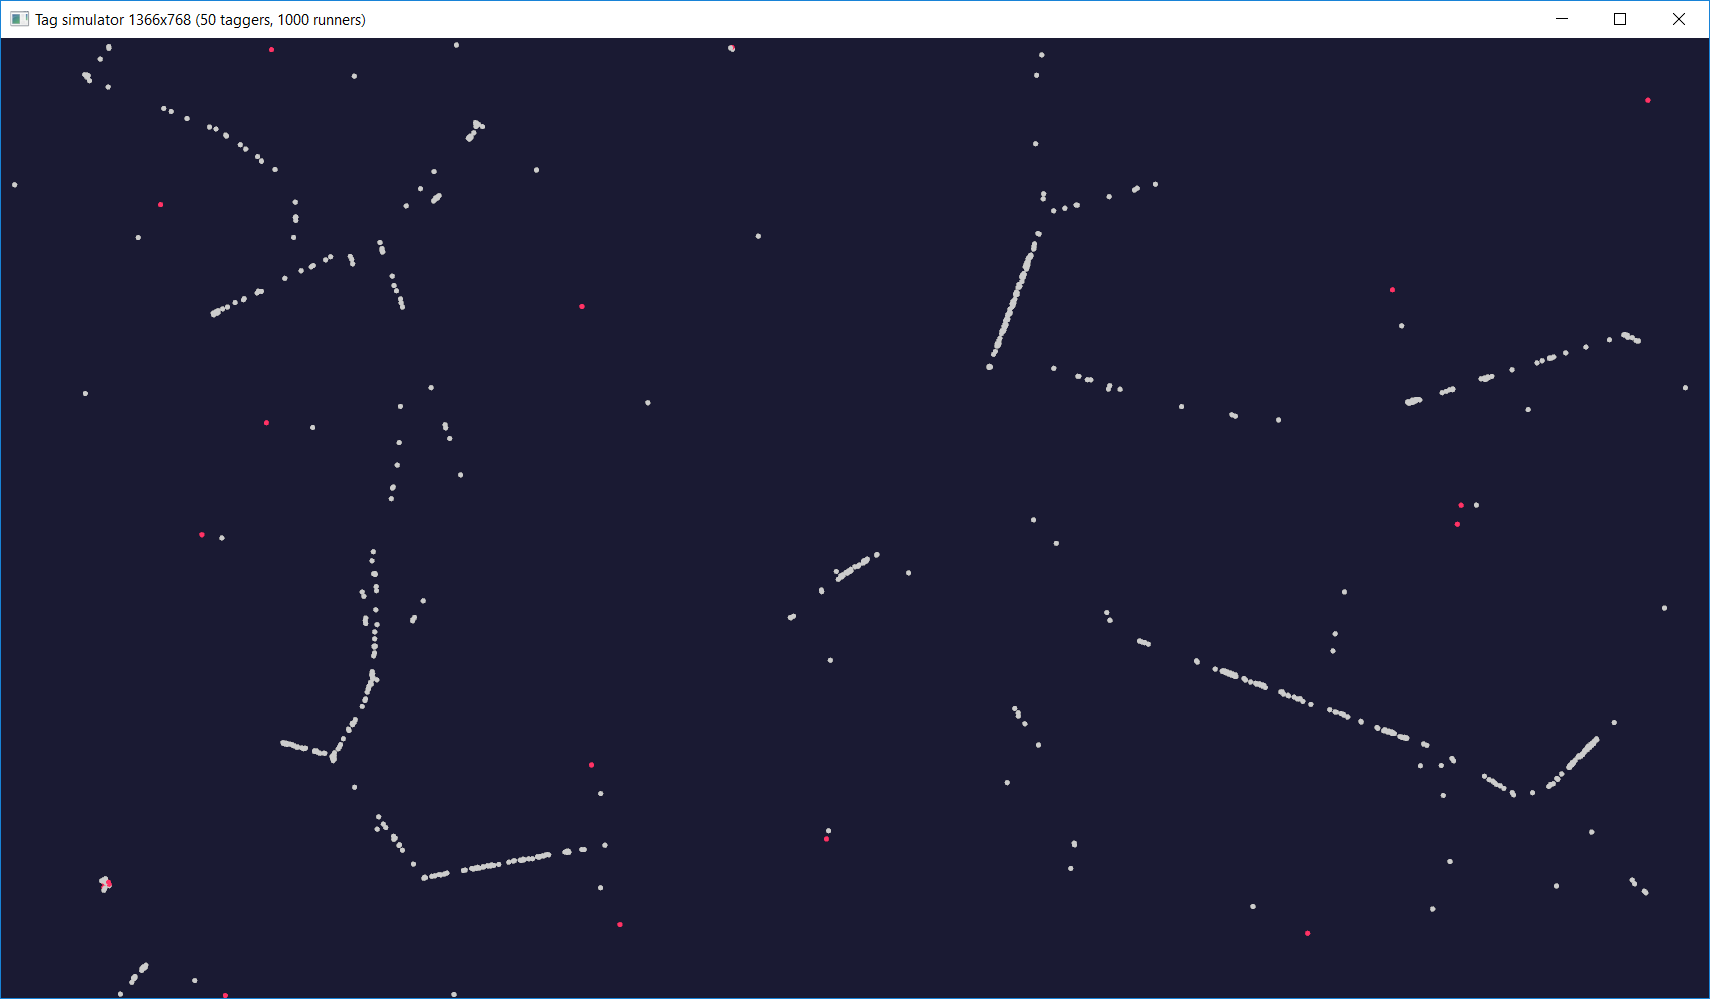
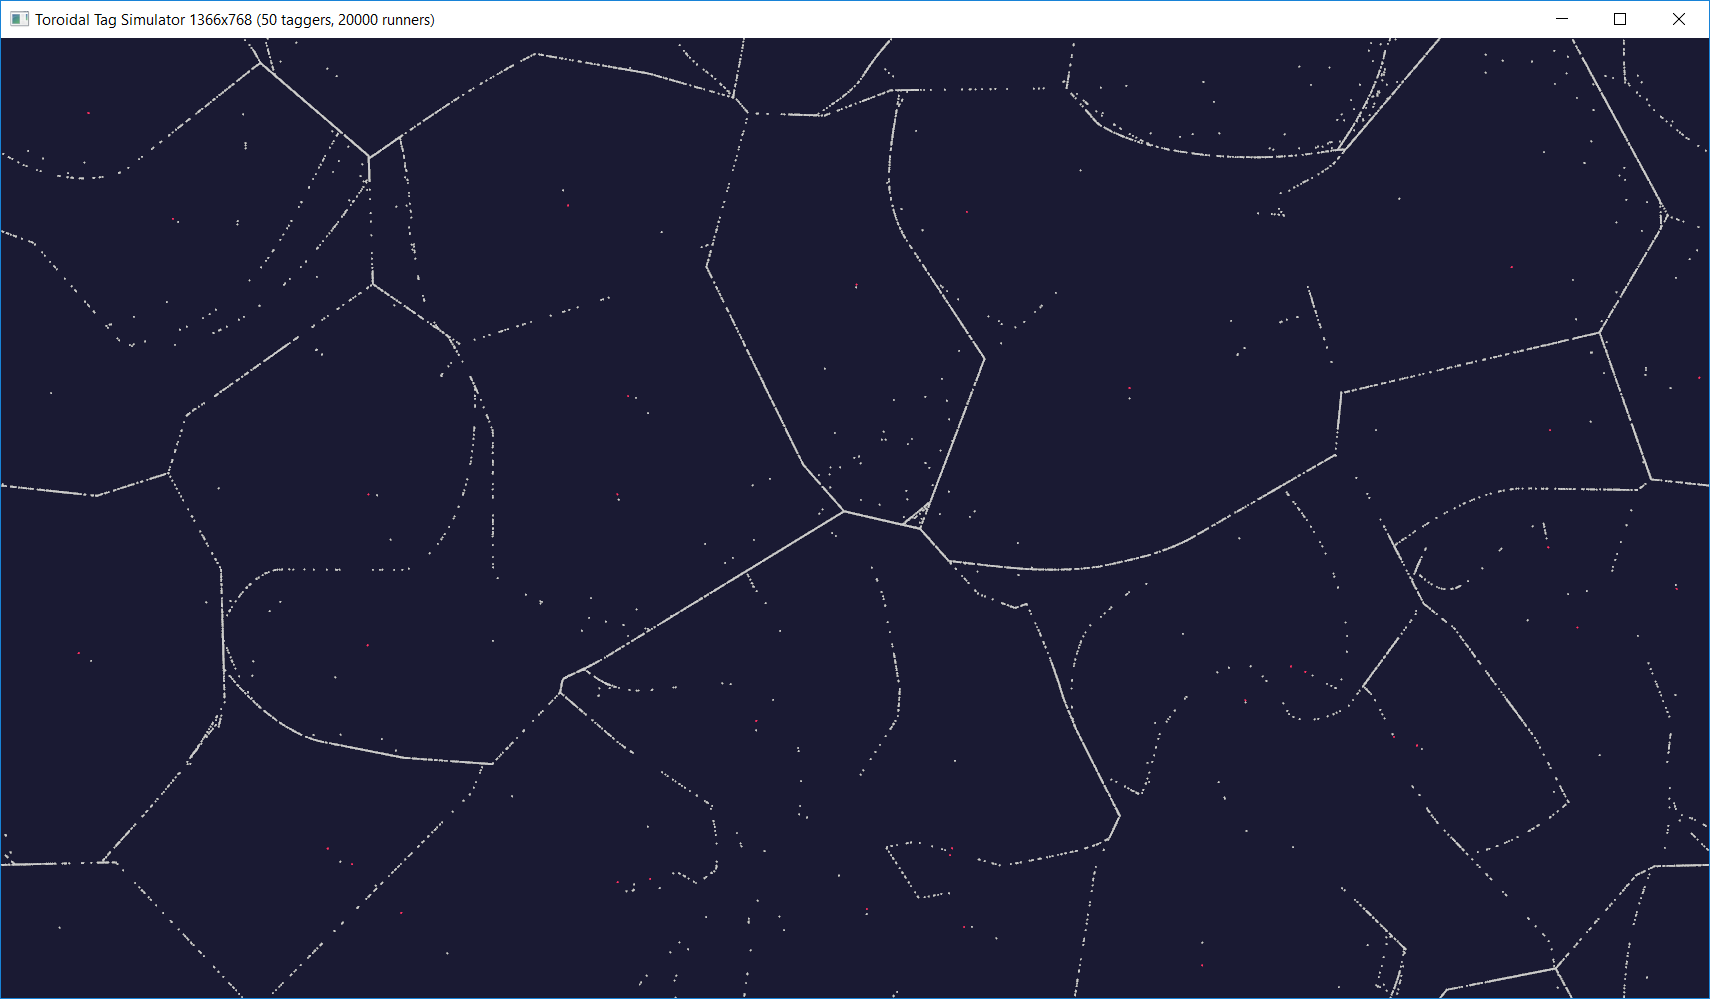
Implement performance counter and parallelise agent updates

diff --git a/src/main.rs b/src/main.rs
@@ -3,23 +3,26 @@ extern crate graphics;
 extern crate opengl_graphics;
 extern crate piston;
 
+use fps_counter::FPSCounter;
 use glutin_window::GlutinWindow as Window;
 use opengl_graphics::{GlGraphics, OpenGL};
 use piston::event_loop::{EventSettings, Events};
 use piston::input::{RenderEvent, UpdateEvent};
 use piston::window::WindowSettings;
 use rand::Rng;
+use rayon::prelude::*;
 
 mod agent;
+mod fps_counter;
 mod vec;
 
 // config
 const WIDTH: u32 = 1366;
 const HEIGHT: u32 = 768;
 const ITTERS: u32 = 50;
-const RUNNERS: u32 = 1000;
-const SPEED: f64 = 100.;
-const IT_RANGE: f64 = 4.;
+const RUNNERS: u32 = 20000;
+const SPEED: f64 = 10.;
+const IT_RANGE: f64 = 1.5;
 
 // colours
 const BG_COL: [f32; 4] = [0.1, 0.1, 0.2, 1.0];
@@ -31,7 +34,7 @@ fn main() {
 
     let mut window: Window = WindowSettings::new(
         format!(
-            "Tag simulator {}x{} ({} taggers, {} runners)",
+            "Toroidal Tag Simulator {}x{} ({} taggers, {} runners)",
             WIDTH, HEIGHT, ITTERS, RUNNERS
         ),
         [WIDTH, HEIGHT],
@@ -74,15 +77,18 @@ fn main() {
 
     // update-render loop
     let mut events = Events::new(EventSettings::new());
+    let mut update_counter = FPSCounter::new("Update".to_string(), 60);
+    let mut render_counter = FPSCounter::new("Render".to_string(), 60);
+
     while let Some(e) = events.next(&mut window) {
         // update
         if let Some(args) = e.update_args() {
-            let mut last_agents = agents.clone();
+            let last_agents = agents.clone();
 
-            for agent in &mut agents {
+            agents.par_iter_mut().for_each(|agent| {
                 agent.update(
                     args.dt,
-                    &mut last_agents,
+                    &last_agents,
                     agent::Options {
                         bounds: vec::Vec2 {
                             x: WIDTH as f64,
@@ -92,7 +98,9 @@ fn main() {
                         speed: SPEED,
                     },
                 );
-            }
+            });
+
+            update_counter.tick();
         }
 
         // render
@@ -117,6 +125,8 @@ fn main() {
                     }
                 })
             }
+
+            render_counter.tick();
         }
     }
 }

diff --git a/src/fps_counter.rs b/src/fps_counter.rs
@@ -1,0 +1,34 @@
+use std::time::{Duration, Instant};
+
+pub struct FPSCounter {
+    name: String,
+    update_period: u64,
+    last_frame_time: std::time::Instant,
+    elapsed_frames: u32,
+}
+
+impl FPSCounter {
+    pub fn new(name: String, update_period: u64) -> FPSCounter {
+        FPSCounter {
+            name: name,
+            update_period: update_period,
+            last_frame_time: Instant::now(),
+            elapsed_frames: 0,
+        }
+    }
+
+    pub fn tick(&mut self) -> () {
+        let elapsed_time = self.last_frame_time.elapsed();
+        self.elapsed_frames += 1;
+
+        if elapsed_time > Duration::new(self.update_period, 0) {
+            println!(
+                "[{}] {:.2}ms per frame",
+                self.name,
+                elapsed_time.as_millis() as f64 / self.elapsed_frames as f64
+            );
+            self.last_frame_time = Instant::now();
+            self.elapsed_frames = 0;
+        }
+    }
+}

diff --git a/src/agent.rs b/src/agent.rs
@@ -3,7 +3,7 @@ use crate::vec;
 // NB: Vec<Box<dyn ...>> cloning implementation based on
 // https://stackoverflow.com/questions/50017987/cant-clone-vecboxtrait-because-trait-cannot-be-made-into-an-object
 
-pub trait Agent: AgentClone {
+pub trait Agent: AgentClone + Send + Sync {
     fn get_id(&self) -> i32;
     fn get_position(&self) -> vec::Vec2;
     fn is_it(&self) -> bool;

diff --git a/README.md b/README.md
@@ -1,6 +1,6 @@
-# You Are IT
+# Toroidal Tag Simulator
 
-An agent based simulation of the classic playground game It (AKA Tag), implemented in `Rust` using `Piston` for graphics.
+An agent based simulation of the classic playground game It (AKA Tag) as played by several thousand rational(-ish) agents on the surface of a torus. Implemented in `Rust` using `Piston` for graphics.
 
 ## How to Run
 
@@ -21,23 +21,34 @@ An agent based simulation of the classic playground game It (AKA Tag), implement
 
 The game takes place in a toroidal space, that is, when an agent leaves one edge of the screen it re-enters at the opposite edge. This was chosen to prevent the agents from all coalescing in the corners when evading the "itters".
 
-The current agent implementation, `SimpleAgent`, operates by a very simple strategy. If it is "it", it finds the nearest agent that is "not-it" and heads towards it. If it is "not-it", it finds the nearest agent that "it" and heads away from it. As "tag-backs" are not allowed, "itting" agents ignore the agent that itted them and "running" agents do not fear the agent that they most recently itted.
+An agent in the simulation must implement the `Agent` trait. The current agent implementation, `SimpleAgent`, operates by a very simple strategy. If it is "it", it finds the nearest agent that is "not-it" and heads towards it. If it is "not-it", it finds the nearest agent that "it" and heads away from it. As "tag-backs" are not allowed, "itting" agents ignore the agent that itted them and "running" agents do not fear the agent that they most recently itted.
 
-To ensure that "its" occur, agents that are "it" recieve a 10% speed boost over their "not-it" counterparts.
+To ensure that "its" occur somewhat frequently, agents that are "it" recieve a 10% speed boost over their "not-it" counterparts.
 
 ## Results
 
-An immediately striking result with larger simulations is that the "running" agents quickly converge on a pattern approximating the Voronoi diagram of the "itting" agents. This makes sense as the runners flee directly away from the itters, meaning that they congregate at points equidistant between two itters.
+An immediately striking result with larger simulations is that the "running" agents quickly converge on a pattern approximating the Voronoi diagram of the "itting" agents. This makes sense as the runners each flee directly away from their closest itter, meaning that they congregate at points equidistant between two itters.
 
 ![Voronoi](./pictures/Voronoi.png)
 
-Due to their speed advantage, the itting agents are always eventually able to catch a runner. This causes edges of the Voronoi pattern to be lost over time until just a few edges remain. As there is no incentive for the running agents to separate the pattern fades into boringness.
+Due to their speed advantage, the itting agents are always eventually able to catch a runner. This causes edges of the Voronoi pattern to be lost over time until just a few edges remain. As there is no incentive for the running agents to separate the pattern fades into boringness:
 
 ![Coalescing](./pictures/Coalescing.png)
 
 ## Performance
 
-`TODO: profile FPS against number of agents, consider attempting parallelism and/or using a tree data structure to hold the agent positions.`
+Since the agents all only consider the position of their neighbours at the previous timestep, they can all be updated entirely independently. This makes this process highly parallisable. I decided to take advantage of this by using `Rayon` to replace the `agents.iter_mut().for_each(...)` with its parallel implementation `agents.par_iter_mut().for_each(...)`. This made no difference at 200 runners, but for 20,000 achieved a speedup of almost 50%.
+
+| Itters | Runners | Parallel? | ms/Update | %chg | ms/Frame | %chg |
+| ------ | ------- | --------- | --------- | ---- | -------- | ---- |
+| 50     | 200     | N         | 8.39      | -    | 17.21    | -    |
+| 50     | 2,000   | N         | 46.02     | -    | 46.00    | -    |
+| 50     | 20,000  | N         | 1902.16   | -    | 1851.61  | -    |
+| 50     | 200     | Y         | 8.4       | -0.1 | 17.24    | -0.2 |
+| 50     | 2,000   | Y         | 37.05     | 19.5 | 37.04    | 19.5 |
+| 50     | 20,000  | Y         | 964.57    | 49.3 | 953.87   | 48.5 |
+
+This table shows both the average milliseconds _between_ agent update ticks and _between_ each frame, not the time taken by these operations. This is because the updates and renders are not (currently) performed concurrently. These times were recorded using my `FPSCounter` implementation and the average over the first 60 seconds is recorded here.
 
 ## Implementation Difficulties
 
@@ -45,22 +56,34 @@ One of the challenges that I faced when learning Rust from my background in less
 
 For example, in the update sequence, I wanted to achieve something like the following:
 
-```
+```rust
 for agent in agents {
-    agent.update(dt, &agents);
+    agent.update(dt, &agents, ...);
 }
 ```
 
 However, since update is both required to mutate the agent (e.g. to update its position) and hold a reference to all the other agents (to find its neighbours), the above pseudocode is not achievable in Rust. Instead, a deep copy must be passed as follows:
 
-```
+```rust
 let mut last_agents = agents.clone();
 
 for agent in &mut agents {
-    agent.update(dt, &mut last_agents);
+    agent.update(dt, &mut last_agents, ...);
 }
 ```
 
 Because I have attempted to keep the `Agent` trait generic, implementing it with `SimpleAgent`, the size of a vector of `Agent` is not necessarily known at compile time. This meant that the vector in fact holds boxed references, making it tricky to implement the `Clone` trait.
 
-Fortunately `Stack Overflow` came to the rescue and I was able to get a working implementation thanks to the following question and answer: https://stackoverflow.com/questions/50017987/cant-clone-vecboxtrait-because-trait-cannot-be-made-into-an-object.
+Fortunately, `Stack Overflow` came to the rescue and I was able to get a working implementation thanks to the following question and answer: https://stackoverflow.com/questions/50017987/cant-clone-vecboxtrait-because-trait-cannot-be-made-into-an-object.
+
+Finally, I wanted to try using `Rayon` to perform the agent updates in parallel. `Rayon` provides parallel implementations of the existing sequential iterators, so to be able to use it I had to again refactor this for loop into a more functional style for-each:
+
+```rust
+agents.iter_mut().for_each(|agent| {
+    agent.update(
+        args.dt,
+        &last_agents,
+        ...
+    );
+});
+```
